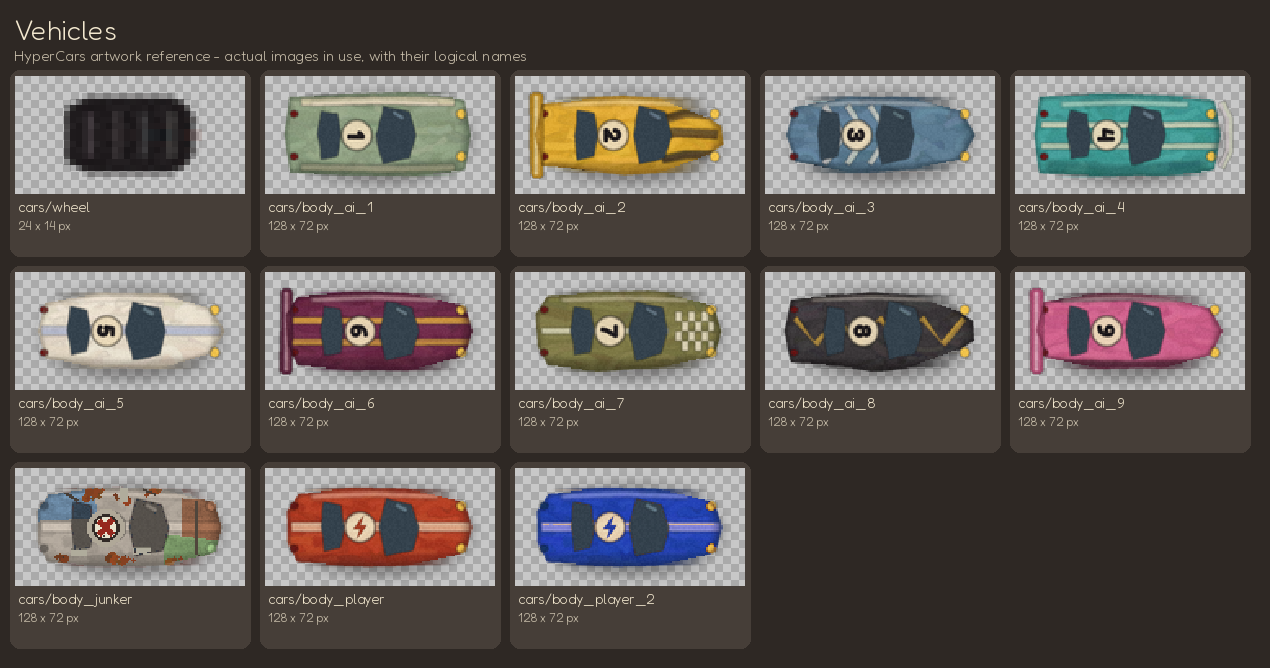
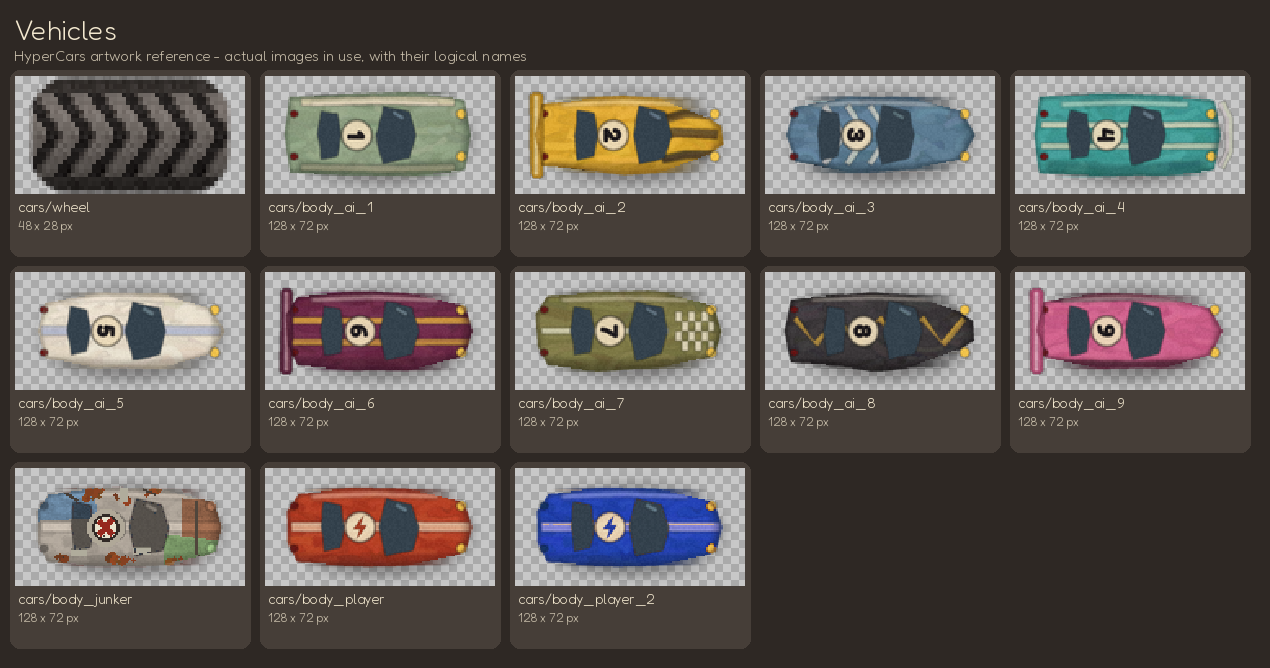
Wheels: tucked under the body, 30 degree steering, rolling tread, a clearer template wheel
Presentation only (driving model, grip, turning unchanged):
- half track 12 -> 10.5 display px: about 2 px of tyre outside the body on
  every car (tested against every packaged body), no wheels on sticks;
- front steering 26 -> 30 degrees, slightly quicker smoothing;
- rolling tread: a small shader scrolls the one shared wheel drawing inside
  its own outline by the distance driven (forward: the top of the tyre moves
  towards the nose), capped per frame against strobing; works for any user
  wheel, no extra frames (WheelLayout.roll_animation / roll_px);
- a new 48x28 template wheel with high-contrast chevron lugs that repeat
  seamlessly along X (readable at race size).
Static car pictures use the same positions (CarArt). Docs: ASSET_SPECS,
ARTWORK_MASTER_LIST (+ vehicles sheet), RACE_RULES, brief.
Evidence: docs/artwork/wheels_before_after.jpg.

Tests: test_presentation_polish (wheels under every body, tread rolls),
test_rear_quarter_contact (steering bound 34), test_car_art (probe moved),
test_asset_resolver, test_presentation_assets.

Claude-Session: https://claude.ai/code/session_01HoR6KCb4x7ecDbsbhHR6p3

Changed region(s): [[0.0, 0.0898, 0.1843, 0.2994], [0.0, 0.3293, 0.0614, 0.3593]]

diff --git a/docs/artwork/make_reference.py b/docs/artwork/make_reference.py
@@ -193,7 +193,9 @@ def main():
         "",
         "- **What to draw:** one **wheel-free body** per car (`cars/body_*`) and one shared",
         "  **wheel** (`cars/wheel`). The game adds four wheels to every car: they steer up to",
-        "  ±26° in races, and the same four are composed into every picture of the car (title",
+        "  ±30° in races, the tread rolls as the car drives (the game scrolls your one wheel",
+        "  drawing inside its outline: a tread that repeats along X rolls best), and the same",
+        "  four are composed into every picture of the car (title",
         "  backdrop, standings, results, championship rewards, Nemesis Welcome, arena scrap",
         "  piles). A car drawn once looks the same everywhere.",
         "- **The body:**",
@@ -208,7 +210,8 @@ def main():
         "  headlights at its painted tail ([night_lights_before_after.jpg](artwork/night_lights_before_after.jpg),",
         "  last row).",
         "- **Wheel positions** (display px from the car centre): front axle +16.5, rear",
-        "  axle −16.5, wheels ±12 sideways. For a differently shaped body, set its own",
+        "  axle −16.5, wheels ±10.5 sideways (mostly under the body, about 2 px of tyre showing).",
+        "  For a differently shaped body, set its own",
         "  points in `src/presentation/default_wheel_layout.tres` (`per_car`).",
         "- **Which artwork wins** (the same on every screen):",
         "  1. your body drawing (with wheels);",

diff --git a/docs/PROJECT_BRIEF.md b/docs/PROJECT_BRIEF.md
@@ -105,7 +105,7 @@ This is the **master template**, not an active game. Complete it collaboratively
   - `src/assets/` — `AssetResolver` (override/fallback), `AssetCatalog` (replacement contract). `src/main/` — composition root; no Autoloads.
 - **Testing framework (GUT or GdUnit4) and commands:** GUT 9.7.1 (vendored in `addons/gut/`; user, 2026-11-14). Run all tests headless from the project root: `godot --headless --path . --import` once, then `godot --headless --path . --fixed-fps 60 -s addons/gut/gut_cmdln.gd` (config: `.gutconfig.json`; engine errors and `push_error` fail tests; `--fixed-fps 60` simulates the AI races in ~3 s instead of ~1 min in real time — both pass). Manual checklists: `tests/manual/m1_driving_checklist.md`, `tests/manual/m2_racing_checklist.md`, `tests/manual/m21_spectator_checklist.md`, `tests/manual/m22_presentation_checklist.md`, `tests/manual/m23_rivals_checklist.md`, `tests/manual/m3_combat_checklist.md`, `tests/manual/race_lengths_checklist.md`, `tests/manual/m35_checklist.md`, `tests/manual/track_themes_checklist.md`, `tests/manual/m4_couch_checklist.md`, `tests/manual/m51_lan_checklist.md`, `tests/manual/m52_online_checklist.md`, `tests/manual/m6_damage_checklist.md`, `tests/manual/voice_checklist.md`, `tests/manual/new_circuits_checklist.md`, `tests/manual/refinement_checklist.md`, consolidated `tests/manual/playtest_checklist.md`. Determinism comparisons run in fresh child processes via `tests/support/sim_probe.gd` (a second race in the same process starts with different physics-engine state).
 - **Target platforms:** Windows is the primary first-playtest platform (user, 2026-11-22); Linux kept where existing support permits. Runtime asset overrides cover Windows / Linux only. No export, installer or release without explicit approval.
-- **Asset override notes:** Runtime `custom/` folder overrides required; see `assets/README.md`. Per-asset replacement contract lives in `src/assets/asset_catalog.gd`: overrides are PNG, may be any resolution but must keep the template's aspect ratio and orientation; the game scales them to a fixed display size. M1 assets (template px → display): `cars/car_player` 128×72 → 64×36 (nose right, centred, transparent); `track/tarmac`, `track/grass` 256×256 seamless, one tile = 256 world px; `track/wall` 128×32 strip seamless left-right, 20 px wide; `track/start_line` 32×128, stretched across the road; `ui/hud_panel` 96×96 nine-patch, 24 px margins. M2 adds `cars/car_ai_1` … `cars/car_ai_9`, same contract as the player car (car n = rival n). M2.1 adds `ui/star_gold`, `ui/star_silver`, `ui/star_bronze` 48×48 → 22×22 (square, centred, transparent). Track variants: `variant_N/track/{grass,tarmac,wall}` (same contracts as the shared ones) and `variant_N/scenery/prop_1` 128×128 (tall, sways), `prop_2` 72×72, `prop_3` 56×56 — override at `custom/graphics/variant_N/…`. **M2.2** repaints cars, ground, barrier and start line (same sizes/contract) and adds scenery, decals, effects, UI (button, logo) graphics plus audio (`custom/audio/…`, OGG or WAV, both runtime-loadable in Godot 4.7). **P2** cars = wheel-free body `cars/body_*` (128×72 → 64×36, nose right, centred) + one shared `cars/wheel` (24×14 → 12×7) drawn four times per car (front axle +16.5, rear −16.5, ±12 display px; per-car points in `src/presentation/default_wheel_layout.tres`); an overridden flattened `cars/car_*` without a body override is drawn alone (no extra wheels); engine audio = `vehicles/engine_loop` (foundation) + `vehicles/engine_load` (load layer). Full list with override paths and sizes: `docs/ASSET_SPECS.md` (generated from `AssetCatalog`); the artist's guide with reference sheets: `docs/ARTWORK_MASTER_LIST.md`. **Cars** (2026-11-20): one artwork everywhere: body drawing (+ wheels) > legacy flattened drawing (as is) > packaged body (+ wheels); every static picture of a car is composed from the same body and wheels (`CarArt`). **The user's packaged drawings** `assets/graphics/<name>.png` (plain name) replace Claude's `template_` files, below `custom/` overrides. The legacy flattened `cars/car_*` names have no packaged template (the user's older drawings only). **Artwork Mode** (Settings, saved, at the next start): ORIGINAL TEMPLATE ARTWORK shows Claude's templates only (graphics). Font: Fredoka (SIL OFL 1.1, `assets/fonts/`). `docs/.gdignore` keeps the art references out of Godot imports.
+- **Asset override notes:** Runtime `custom/` folder overrides required; see `assets/README.md`. Per-asset replacement contract lives in `src/assets/asset_catalog.gd`: overrides are PNG, may be any resolution but must keep the template's aspect ratio and orientation; the game scales them to a fixed display size. M1 assets (template px → display): `cars/car_player` 128×72 → 64×36 (nose right, centred, transparent); `track/tarmac`, `track/grass` 256×256 seamless, one tile = 256 world px; `track/wall` 128×32 strip seamless left-right, 20 px wide; `track/start_line` 32×128, stretched across the road; `ui/hud_panel` 96×96 nine-patch, 24 px margins. M2 adds `cars/car_ai_1` … `cars/car_ai_9`, same contract as the player car (car n = rival n). M2.1 adds `ui/star_gold`, `ui/star_silver`, `ui/star_bronze` 48×48 → 22×22 (square, centred, transparent). Track variants: `variant_N/track/{grass,tarmac,wall}` (same contracts as the shared ones) and `variant_N/scenery/prop_1` 128×128 (tall, sways), `prop_2` 72×72, `prop_3` 56×56 — override at `custom/graphics/variant_N/…`. **M2.2** repaints cars, ground, barrier and start line (same sizes/contract) and adds scenery, decals, effects, UI (button, logo) graphics plus audio (`custom/audio/…`, OGG or WAV, both runtime-loadable in Godot 4.7). **P2** cars = wheel-free body `cars/body_*` (128×72 → 64×36, nose right, centred) + one shared `cars/wheel` (48×28 since 2026-11-22 → 12×7) drawn four times per car (front axle +16.5, rear −16.5, ±10.5 display px since 2026-11-22; per-car points in `src/presentation/default_wheel_layout.tres`); an overridden flattened `cars/car_*` without a body override is drawn alone (no extra wheels); engine audio = `vehicles/engine_loop` (foundation) + `vehicles/engine_load` (load layer). Full list with override paths and sizes: `docs/ASSET_SPECS.md` (generated from `AssetCatalog`); the artist's guide with reference sheets: `docs/ARTWORK_MASTER_LIST.md`. **Cars** (2026-11-20): one artwork everywhere: body drawing (+ wheels) > legacy flattened drawing (as is) > packaged body (+ wheels); every static picture of a car is composed from the same body and wheels (`CarArt`). **The user's packaged drawings** `assets/graphics/<name>.png` (plain name) replace Claude's `template_` files, below `custom/` overrides. The legacy flattened `cars/car_*` names have no packaged template (the user's older drawings only). **Artwork Mode** (Settings, saved, at the next start): ORIGINAL TEMPLATE ARTWORK shows Claude's templates only (graphics). Font: Fredoka (SIL OFL 1.1, `assets/fonts/`). `docs/.gdignore` keeps the art references out of Godot imports.
 
 ## Current approved development objective
 

diff --git a/docs/ASSET_SPECS.md b/docs/ASSET_SPECS.md
@@ -10,11 +10,11 @@ Put your file at the **override path** inside `custom/` (project folder while de
 
 ### Cars: body + shared wheel (P2)
 
-Each car is drawn as **one body image** plus **four copies of one shared wheel image**; the front pair turns with the steering (up to ±26°), the rear pair shifts a pixel or two sideways when cornering.
+Each car is drawn as **one body image** plus **four copies of one shared wheel image**; the front pair turns with the steering (up to ±30°), the rear pair shifts a pixel or two sideways when cornering, and the tread rolls as the car drives (the game scrolls the wheel image along X inside its own outline: one drawing, no extra frames).
 
 - **Body** `custom/graphics/cars/body_<car>.png` (`body_player`, `body_player_2`, `body_ai_1` … `body_ai_9`): top-down, **nose pointing right (+X)**, the car centred in the image (the image centre is the car's pivot), transparent background, **no wheels painted in** (leave the wheel areas transparent or let the body edge cover the inner part of the wheels, as the templates do). Any resolution with the 16:9-ish 128 x 72 aspect; it is shown 64 x 36 world px.
-- **Wheel** `custom/graphics/cars/wheel.png`: one tyre seen from above, rolling direction along X, centred, transparent background, 24 x 14 aspect (shown 12 x 7 world px). Used for all ten cars; the body is drawn on top of it.
-- **Attachment points** (display px from the car centre, car facing +X): front axle x = +16.5, rear axle x = −16.5, wheels y = ±12. These fit the template bodies. For a differently shaped body, set its own points in `src/presentation/default_wheel_layout.tres` (`per_car`: `"cars/body_ai_3": Vector3(front_x, rear_x, half_track)`); the motion amounts (`max_steer_degrees`, `rear_shift_px`) are there too.
+- **Wheel** `custom/graphics/cars/wheel.png`: one tyre seen from above, rolling direction along X, centred, transparent background, 48 x 28 template (shown 12 x 7 world px; any resolution with that aspect). A tread that repeats seamlessly along X rolls best. Used for all ten cars; the body is drawn on top of it.
+- **Attachment points** (display px from the car centre, car facing +X): front axle x = +16.5, rear axle x = −16.5, wheels y = ±10.5 (mostly under the body, about 2 px of tyre showing). These fit the template bodies. For a differently shaped body, set its own points in `src/presentation/default_wheel_layout.tres` (`per_car`: `"cars/body_ai_3": Vector3(front_x, rear_x, half_track)`); the motion amounts (`max_steer_degrees`, `rear_shift_px`, `roll_animation`, `roll_px`) are there too.
 - **Older flattened car images** `custom/graphics/cars/car_<car>.png` (wheels painted in) still work: when such a file exists and no `body_<car>.png` does, it is drawn as it is, without extra wheels (no doubled wheels, no animation). A `body_` file takes precedence. Every picture of the car (title, standings, results, championship, Nemesis Welcome, arena) is made from the same artwork as the racing car: the body with its four wheels, or your flattened image when that is all there is. Complete list and drawing guide: `docs/ARTWORK_MASTER_LIST.md`.
 
 Any resolution is accepted as long as the **aspect ratio and orientation** match the template; the game scales it to the display size. Cars face right (+X). Transparent backgrounds unless noted.
@@ -45,7 +45,7 @@ Any resolution is accepted as long as the **aspect ratio and orientation** match
 | `custom/graphics/cars/car_junker.png` | 128 x 72 | 64 x 36 | Championship: the battered junker a rival drives after the player has won their car; same contract as the player car. LEGACY flattened car (wheels painted in): your own older drawing only, used when no body drawing exists; there is no packaged template. Prefer body_*. |
 | `custom/graphics/cars/car_player.png` | 128 x 72 | 64 x 36 | Top-down, nose pointing right (+X), centred pivot, transparent background. LEGACY flattened car (wheels painted in): your own older drawing only, used when no body drawing exists; there is no packaged template. Prefer body_*. |
 | `custom/graphics/cars/car_player_2.png` | 128 x 72 | 64 x 36 | Player 2 car (two-player races); same contract as the player car. LEGACY flattened car (wheels painted in): your own older drawing only, used when no body drawing exists; there is no packaged template. Prefer body_*. |
-| `custom/graphics/cars/wheel.png` | 24 x 14 | 12 x 7 | Shared wheel (P2), top-down, rolling direction along X (car nose right), centred pivot, transparent background. One image for all ten cars; four instances per car at the positions in src/presentation/default_wheel_layout.tres. |
+| `custom/graphics/cars/wheel.png` | 48 x 28 | 12 x 7 | Shared wheel (P2), top-down, rolling direction along X (car nose right), centred pivot, transparent background. One image for all ten cars; four instances per car at the positions in src/presentation/default_wheel_layout.tres. While driving, its colours scroll along X inside its own outline (rolling tread): a tread that repeats seamlessly along X rolls best; one drawing, no extra frames. |
 | `custom/graphics/decals/grid_box.png` | 72 x 48 | 72 x 48 | Painted grid-slot bracket; open side faces the driving direction (+X). |
 | `custom/graphics/decals/road_wear.png` | 160 x 64 | 240 x 96 | Semi-transparent road wear decal, long axis along the driving direction. |
 | `custom/graphics/decals/tire_mark.png` | 32 x 12 | 10 x 26 | Pair of rear-tyre marks along +X (stamped repeatedly while sliding); seamless left-right. |

diff --git a/docs/ARTWORK_MASTER_LIST.md b/docs/ARTWORK_MASTER_LIST.md
@@ -43,7 +43,9 @@ Pick one of two places; restart the game to see it.
 
 - **What to draw:** one **wheel-free body** per car (`cars/body_*`) and one shared
   **wheel** (`cars/wheel`). The game adds four wheels to every car: they steer up to
-  ±26° in races, and the same four are composed into every picture of the car (title
+  ±30° in races, the tread rolls as the car drives (the game scrolls your one wheel
+  drawing inside its outline: a tread that repeats along X rolls best), and the same
+  four are composed into every picture of the car (title
   backdrop, standings, results, championship rewards, Nemesis Welcome, arena scrap
   piles). A car drawn once looks the same everywhere.
 - **The body:**
@@ -58,7 +60,8 @@ Pick one of two places; restart the game to see it.
   headlights at its painted tail ([night_lights_before_after.jpg](artwork/night_lights_before_after.jpg),
   last row).
 - **Wheel positions** (display px from the car centre): front axle +16.5, rear
-  axle −16.5, wheels ±12 sideways. For a differently shaped body, set its own
+  axle −16.5, wheels ±10.5 sideways (mostly under the body, about 2 px of tyre showing).
+  For a differently shaped body, set its own
   points in `src/presentation/default_wheel_layout.tres` (`per_car`).
 - **Which artwork wins** (the same on every screen):
   1. your body drawing (with wheels);
@@ -85,7 +88,7 @@ Cars: one wheel-free body per car plus the shared wheel. Draw these. Reference s
 
 | Name | What it is / where it appears | Template (px) | Shown at (world px) | Frames | Orientation | Background | Status | Packaged template | Your replacement |
 |---|---|---|---|---|---|---|---|---|---|
-| `cars/wheel` | Shared wheel (P2), top-down, rolling direction along X (car nose right), centred pivot, transparent background. One image for all ten cars; four instances per car at the positions in src/presentation/default_wheel_layout.tres. | 24 x 14 | 12 x 7 | 1 | top-down, nose pointing right (+X), car centred | transparent background | primary | `assets/graphics/cars/template_wheel.png` | `custom/graphics/cars/wheel.png` |
+| `cars/wheel` | Shared wheel (P2), top-down, rolling direction along X (car nose right), centred pivot, transparent background. One image for all ten cars; four instances per car at the positions in src/presentation/default_wheel_layout.tres. While driving, its colours scroll along X inside its own outline (rolling tread): a tread that repeats seamlessly along X rolls best; one drawing, no extra frames. | 48 x 28 | 12 x 7 | 1 | top-down, nose pointing right (+X), car centred | transparent background | primary | `assets/graphics/cars/template_wheel.png` | `custom/graphics/cars/wheel.png` |
 | `cars/body_ai_1` | Wheel-free body (P2): same size, orientation and pivot as the car image, transparent where the wheels go; the game adds four shared wheels (also in every static picture of the car). Takes precedence over the flattened car image. | 128 x 72 | 64 x 36 | 1 | top-down, nose pointing right (+X), car centred | transparent background | primary | `assets/graphics/cars/template_body_ai_1.png` | `custom/graphics/cars/body_ai_1.png` |
 | `cars/body_ai_2` | Wheel-free body (P2): same size, orientation and pivot as the car image, transparent where the wheels go; the game adds four shared wheels (also in every static picture of the car). Takes precedence over the flattened car image. | 128 x 72 | 64 x 36 | 1 | top-down, nose pointing right (+X), car centred | transparent background | primary | `assets/graphics/cars/template_body_ai_2.png` | `custom/graphics/cars/body_ai_2.png` |
 | `cars/body_ai_3` | Wheel-free body (P2): same size, orientation and pivot as the car image, transparent where the wheels go; the game adds four shared wheels (also in every static picture of the car). Takes precedence over the flattened car image. | 128 x 72 | 64 x 36 | 1 | top-down, nose pointing right (+X), car centred | transparent background | primary | `assets/graphics/cars/template_body_ai_3.png` | `custom/graphics/cars/body_ai_3.png` |

diff --git a/docs/RACE_RULES.md b/docs/RACE_RULES.md
@@ -29,9 +29,10 @@ and grip unchanged (`DrivingParams`, provisional).
 
 ## Front-wheel steering (visual only)
 
-The front wheels now turn up to 26° (was 10°) with the same smoothing
-(`WheelLayout.max_steer_degrees`); the wheels sit mostly under the body, so the angle
-shows on their outer edges. The driving model is untouched.
+The front wheels turn up to 30° (2026-11-22; was 26°, at first 10°)
+(`WheelLayout.max_steer_degrees`). Since 2026-11-22 the wheels sit further under the
+body (±10.5 display px, about 2 px of tyre showing), so the angle shows on their outer
+edges, and the tread rolls with the distance driven. The driving model is untouched.
 
 ## Race-long ammunition
 
